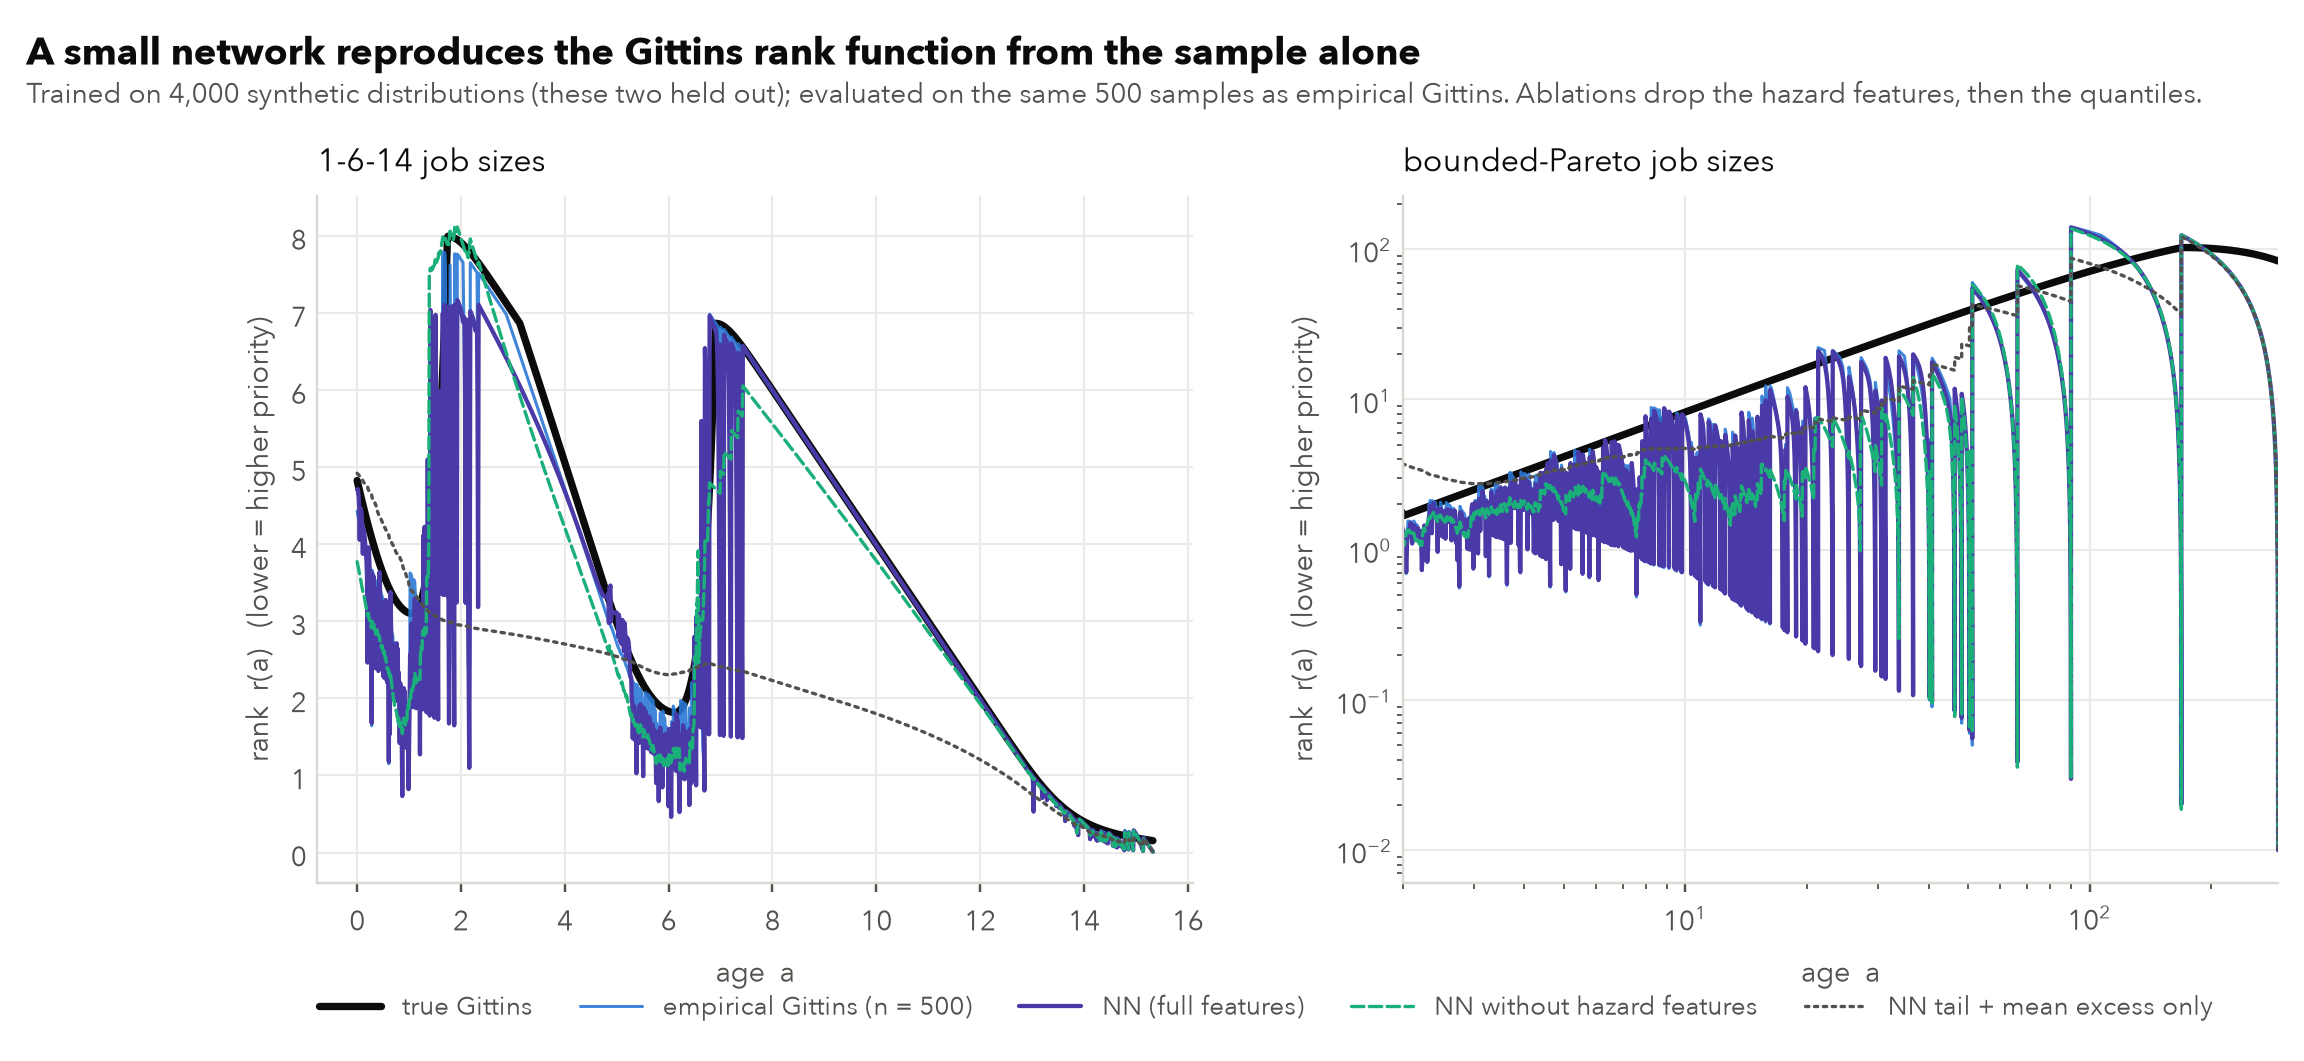
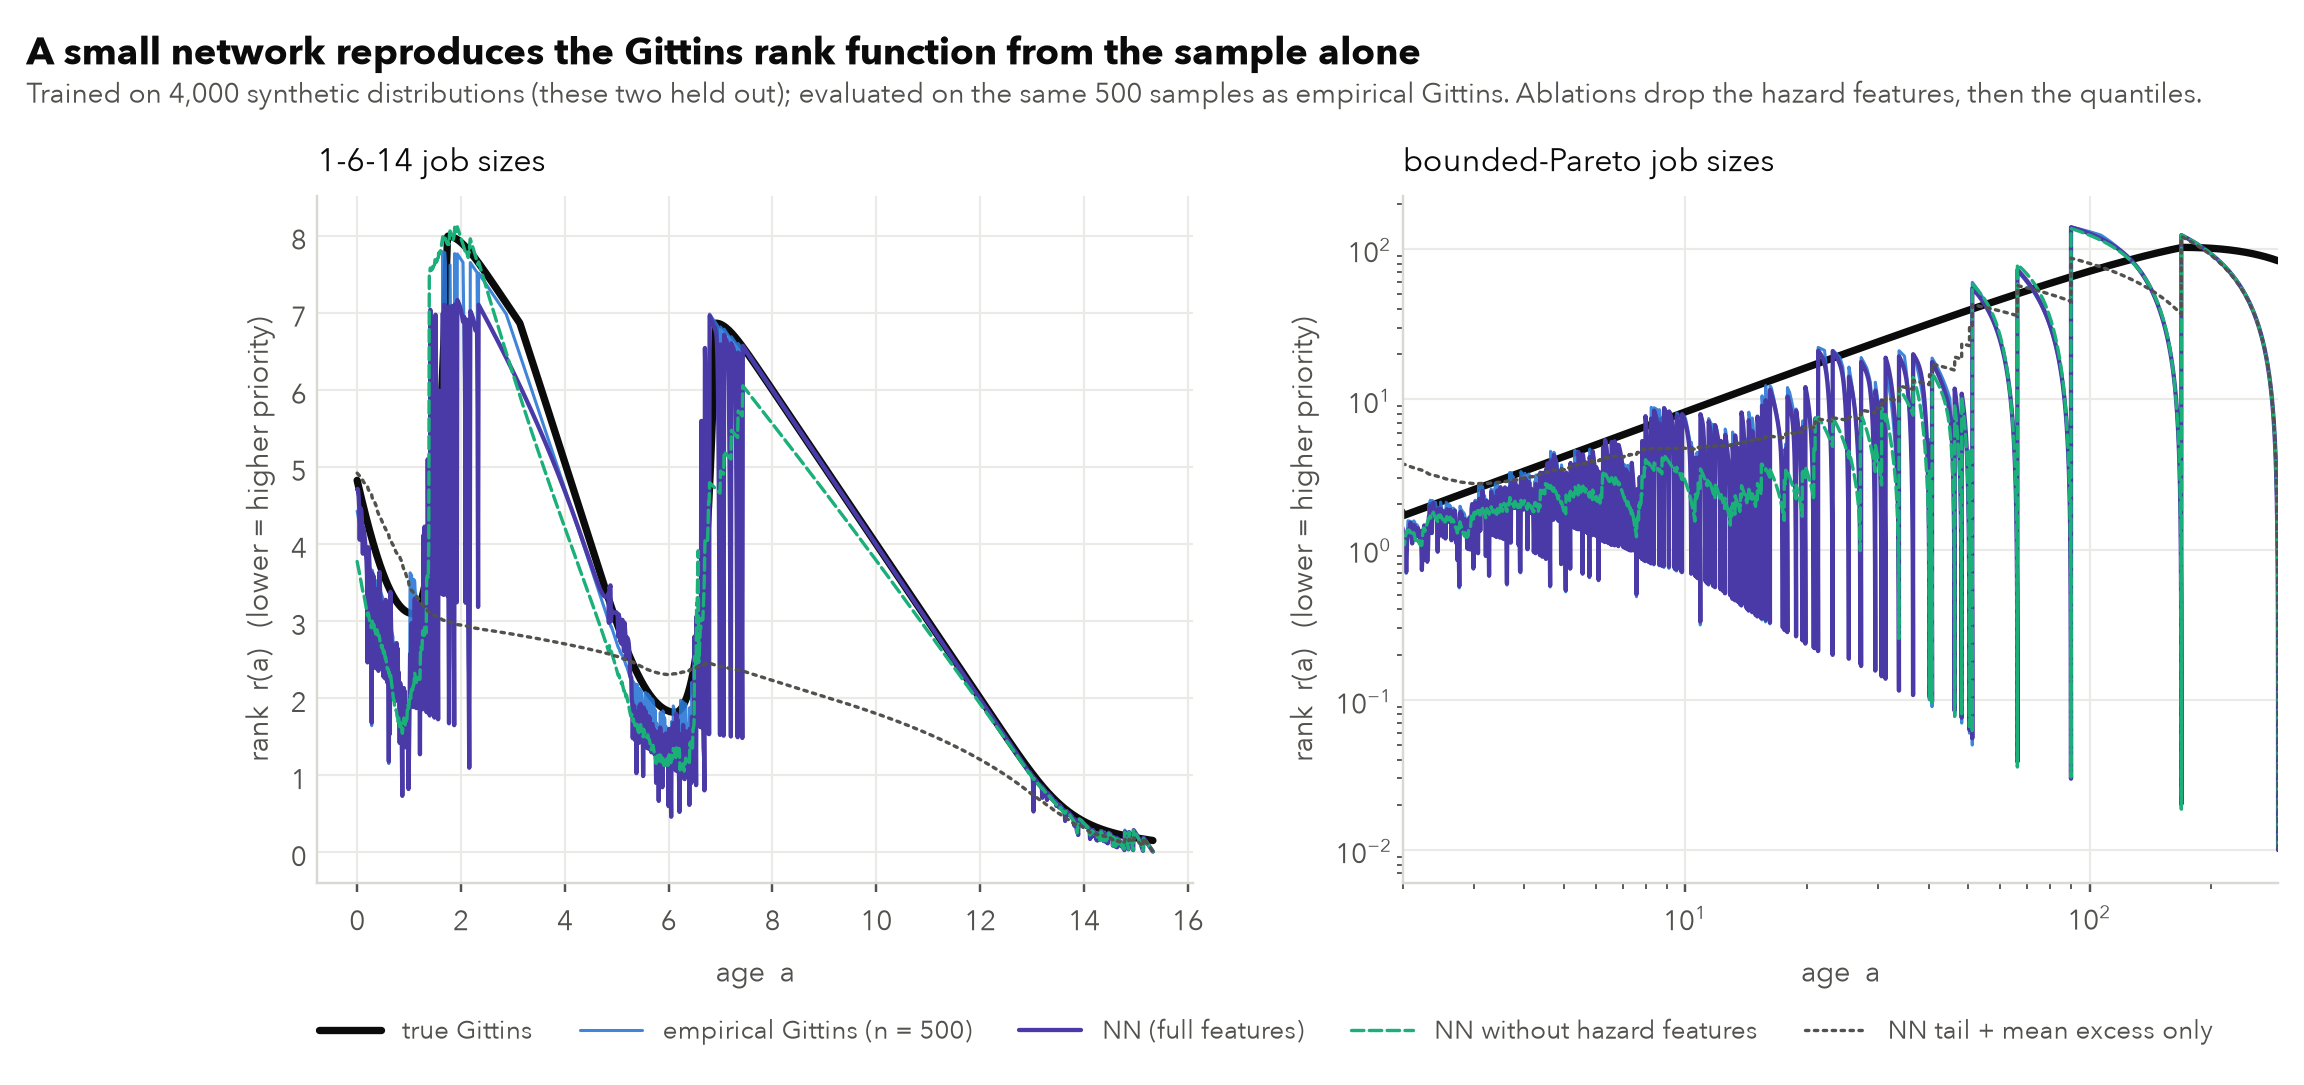
Headline-free slide exports (figures/slides/) and two legend placements
EGITTINS_SLIDES=1 makes headline() a no-op and routes savefig() into a
slides/ subfolder, so the deck can use figures whose title lives on the
slide instead of being baked into the PNG. experiments/slide_export.py runs
every plot-only step with that set; all 13 figures are exported.

Two legends were positioned relative to the headline and needed a
mode-aware placement: the s11 figure legend gets its own band above the
panels in slides mode, and the rank-overlay shared legend is anchored below
the axes so it clears the x-axis labels in both modes.

README lists the exporter. rank_timing.csv changes because the rank-hull
script re-measures timings on each run.

diff --git a/egittins/plotting.py b/egittins/plotting.py
@@ -14,8 +14,14 @@ The categorical slots are the validated reference palette (blue, orange, aqua,
 violet: CVD-safe in that order); INK/INK2 are text tokens, never series colours.
 """
 
+import os
+
 import matplotlib as mpl
 import matplotlib.pyplot as plt
+
+# EGITTINS_SLIDES=1: no baked-in headline/subtitle (the slide title carries it) and
+# every figure is written to a slides/ subfolder next to its usual path.
+SLIDES = os.environ.get("EGITTINS_SLIDES", "0") == "1"
 
 BLUE, ORANGE, AQUA, VIOLET = "#2a78d6", "#eb6834", "#1baf7a", "#4a3aa7"
 INK, INK2, INK3 = "#0b0b0b", "#52514e", "#8a8984"
@@ -73,7 +79,12 @@ def use_style():
 
 
 def headline(fig, title, subtitle=None, top=0.84, x=0.01):
-    """Left-aligned finding above the figure, with the setup in a muted subtitle."""
+    """Left-aligned finding above the figure, with the setup in a muted subtitle.
+
+    A no-op under EGITTINS_SLIDES=1, where the slide title plays this role.
+    """
+    if SLIDES:
+        return
     fig.subplots_adjust(top=top)
     fig.text(x, 0.995, title, ha="left", va="top", fontsize=12.5, fontweight="bold", color=INK)
     if subtitle:
@@ -102,6 +113,11 @@ def ref_line(ax, y, label, style, color=INK2, side="right", dy=0.0):
 
 
 def savefig(fig, path):
+    if SLIDES:
+        d, name = os.path.split(path)
+        d = os.path.join(d, "slides")
+        os.makedirs(d, exist_ok=True)
+        path = os.path.join(d, name)
     fig.savefig(path, bbox_inches="tight", facecolor=SURFACE, pad_inches=0.12)
     plt.close(fig)
     print("wrote", path)

diff --git a/experiments/baseline_comparison.py b/experiments/baseline_comparison.py
@@ -115,7 +115,7 @@ def plot():
     import matplotlib.pyplot as plt
     from matplotlib.lines import Line2D
     from matplotlib.patches import Patch
-    from egittins.plotting import use_style, savefig, headline, style_box, ref_line, BLUE, ORANGE, INK, INK2
+    from egittins.plotting import use_style, savefig, headline, style_box, ref_line, BLUE, ORANGE, INK, INK2, SLIDES
 
     use_style()
     df = pd.read_csv(os.path.join(RES, "baseline_comparison.csv"))
@@ -165,7 +165,11 @@ def plot():
     headline(fig, "A hundred past jobs already gets within 5% of the optimal schedule",
              f"Mean response time relative to true Gittins. {ntr} trials per box, each paired with true Gittins on the same "
              "arrival stream.\nBox = quartiles, line = median, whiskers = 1.5 × IQR.", top=0.825)
-    fig.legend(handles=handles, loc="upper left", bbox_to_anchor=(0.005, 0.9), ncol=5, columnspacing=1.8)
+    if SLIDES:                                    # no headline: give the legend its own band above the panels
+        fig.subplots_adjust(top=0.9)
+        fig.legend(handles=handles, loc="upper left", bbox_to_anchor=(0.005, 0.99), ncol=5, columnspacing=1.8)
+    else:
+        fig.legend(handles=handles, loc="upper left", bbox_to_anchor=(0.005, 0.9), ncol=5, columnspacing=1.8)
     savefig(fig, os.path.join(FIG, "s11_baseline.png"))
 
     # teaser for the EDA slide: one panel

diff --git a/experiments/slide_export.py b/experiments/slide_export.py
@@ -1,0 +1,31 @@
+"""
+Export every deck figure without the baked-in headline and subtitle, to figures/slides/.
+
+The slide title carries the finding, so the headline would duplicate it. Colours,
+legends, panel titles and axis labels are unchanged. Re-plots from the existing
+CSVs (no simulation); the rank-hull timing is re-measured (a few seconds).
+
+Run:  python -m experiments.slide_export
+"""
+
+import os
+import subprocess
+import sys
+
+STEPS = [
+    ["-m", "experiments.slide_figures"],
+    ["-m", "experiments.eda_tails"],
+    ["-m", "experiments.rank_hull"],
+    ["-m", "experiments.baseline_comparison", "--plot"],
+    ["-m", "experiments.kupdating_drift", "--plot"],
+    ["-m", "experiments.imitation", "overlay"],
+    ["-m", "experiments.rl", "--plot"],
+]
+
+if __name__ == "__main__":
+    env = dict(os.environ, EGITTINS_SLIDES="1")
+    root = os.path.join(os.path.dirname(__file__), "..")
+    for step in STEPS:
+        print("+", " ".join(step), flush=True)
+        subprocess.run([sys.executable, *step], cwd=root, env=env, check=True)
+    print("slide exports are in figures/slides/")

diff --git a/experiments/imitation.py b/experiments/imitation.py
@@ -109,7 +109,7 @@ def plot_overlay(seed: int = 11):
             ax.set_yscale("log")
             ax.set_xlim(2, lim * F.h)
     handles, labels = axes[0].get_legend_handles_labels()
-    fig.legend(handles, labels, loc="lower center", bbox_to_anchor=(0.5, -0.06), ncol=5, columnspacing=1.8)
+    fig.legend(handles, labels, loc="upper center", bbox_to_anchor=(0.5, 0.0), ncol=5, columnspacing=1.8)
     headline(fig, "A small network reproduces the Gittins rank function from the sample alone",
              f"Trained on 4,000 synthetic distributions (these two held out); evaluated on the same {N_SAMPLES} samples as "
              "empirical Gittins. Ablations drop the hazard features, then the quantiles.", top=0.82)

diff --git a/README.md b/README.md
@@ -27,6 +27,7 @@ python -m experiments.drift_window        # figures/drift_window.png         (~1
 python -m experiments.kupdating_drift     # figures/s13_drift_*.png, results/s13_*.csv (~5 min, 12 cores)
 python -m experiments.imitation           # figures/s13_rank_overlay.png, results/s13_imitation_*.csv (~10 min; needs torch)
 python -m experiments.rl                  # figures/s13_rl.png, results/s13_rl_*.csv (~3 min; needs torch)
+python -m experiments.slide_export        # figures/slides/*.png: the same figures without the baked-in headline/subtitle
 ```
 
 `RESULTS.md` lists every number (with CIs) and the command that produced it.
